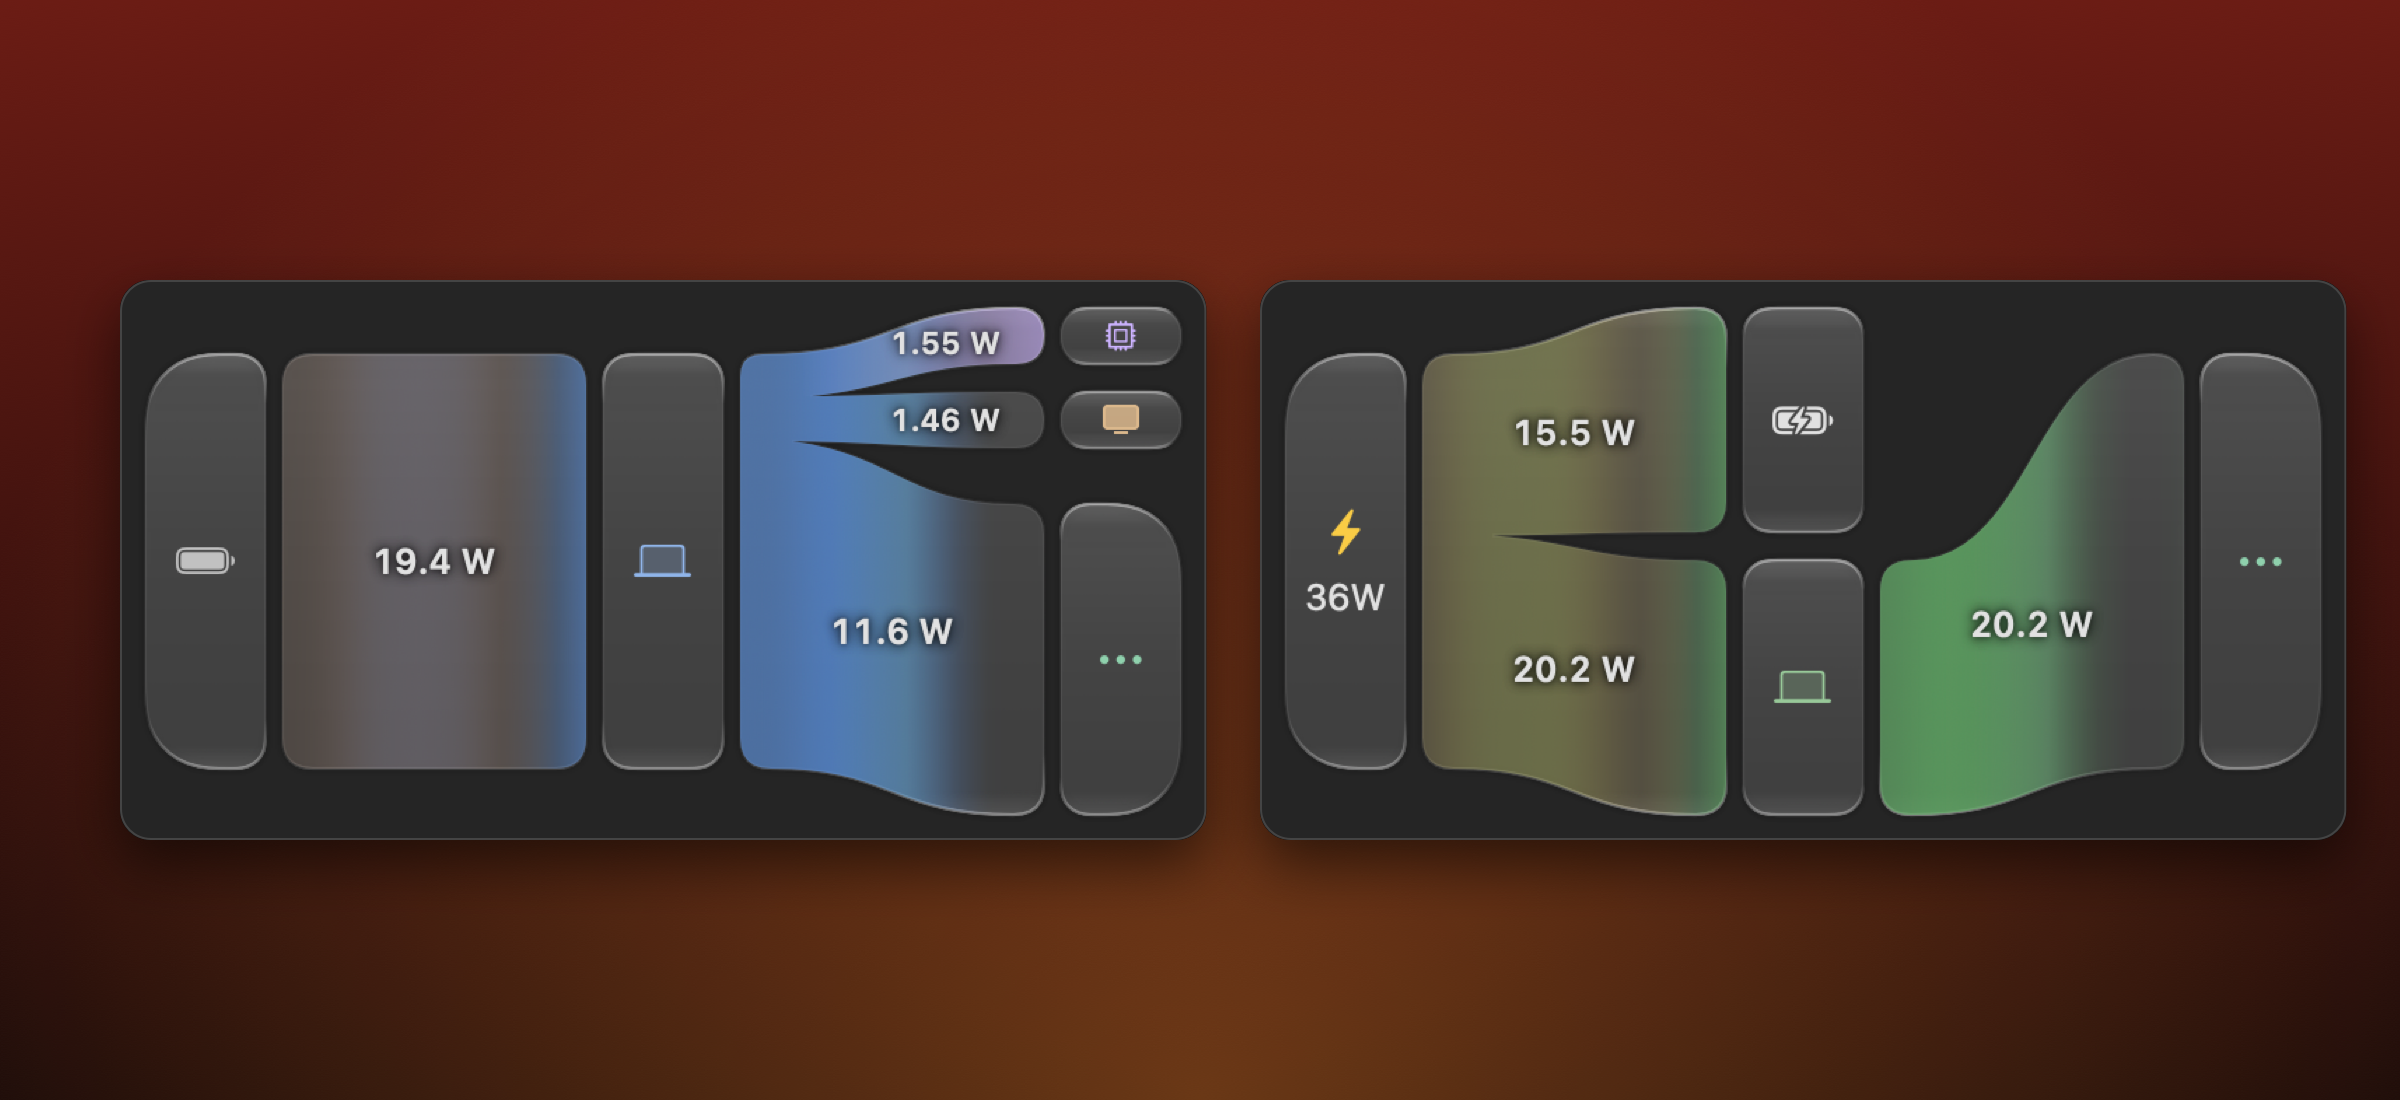
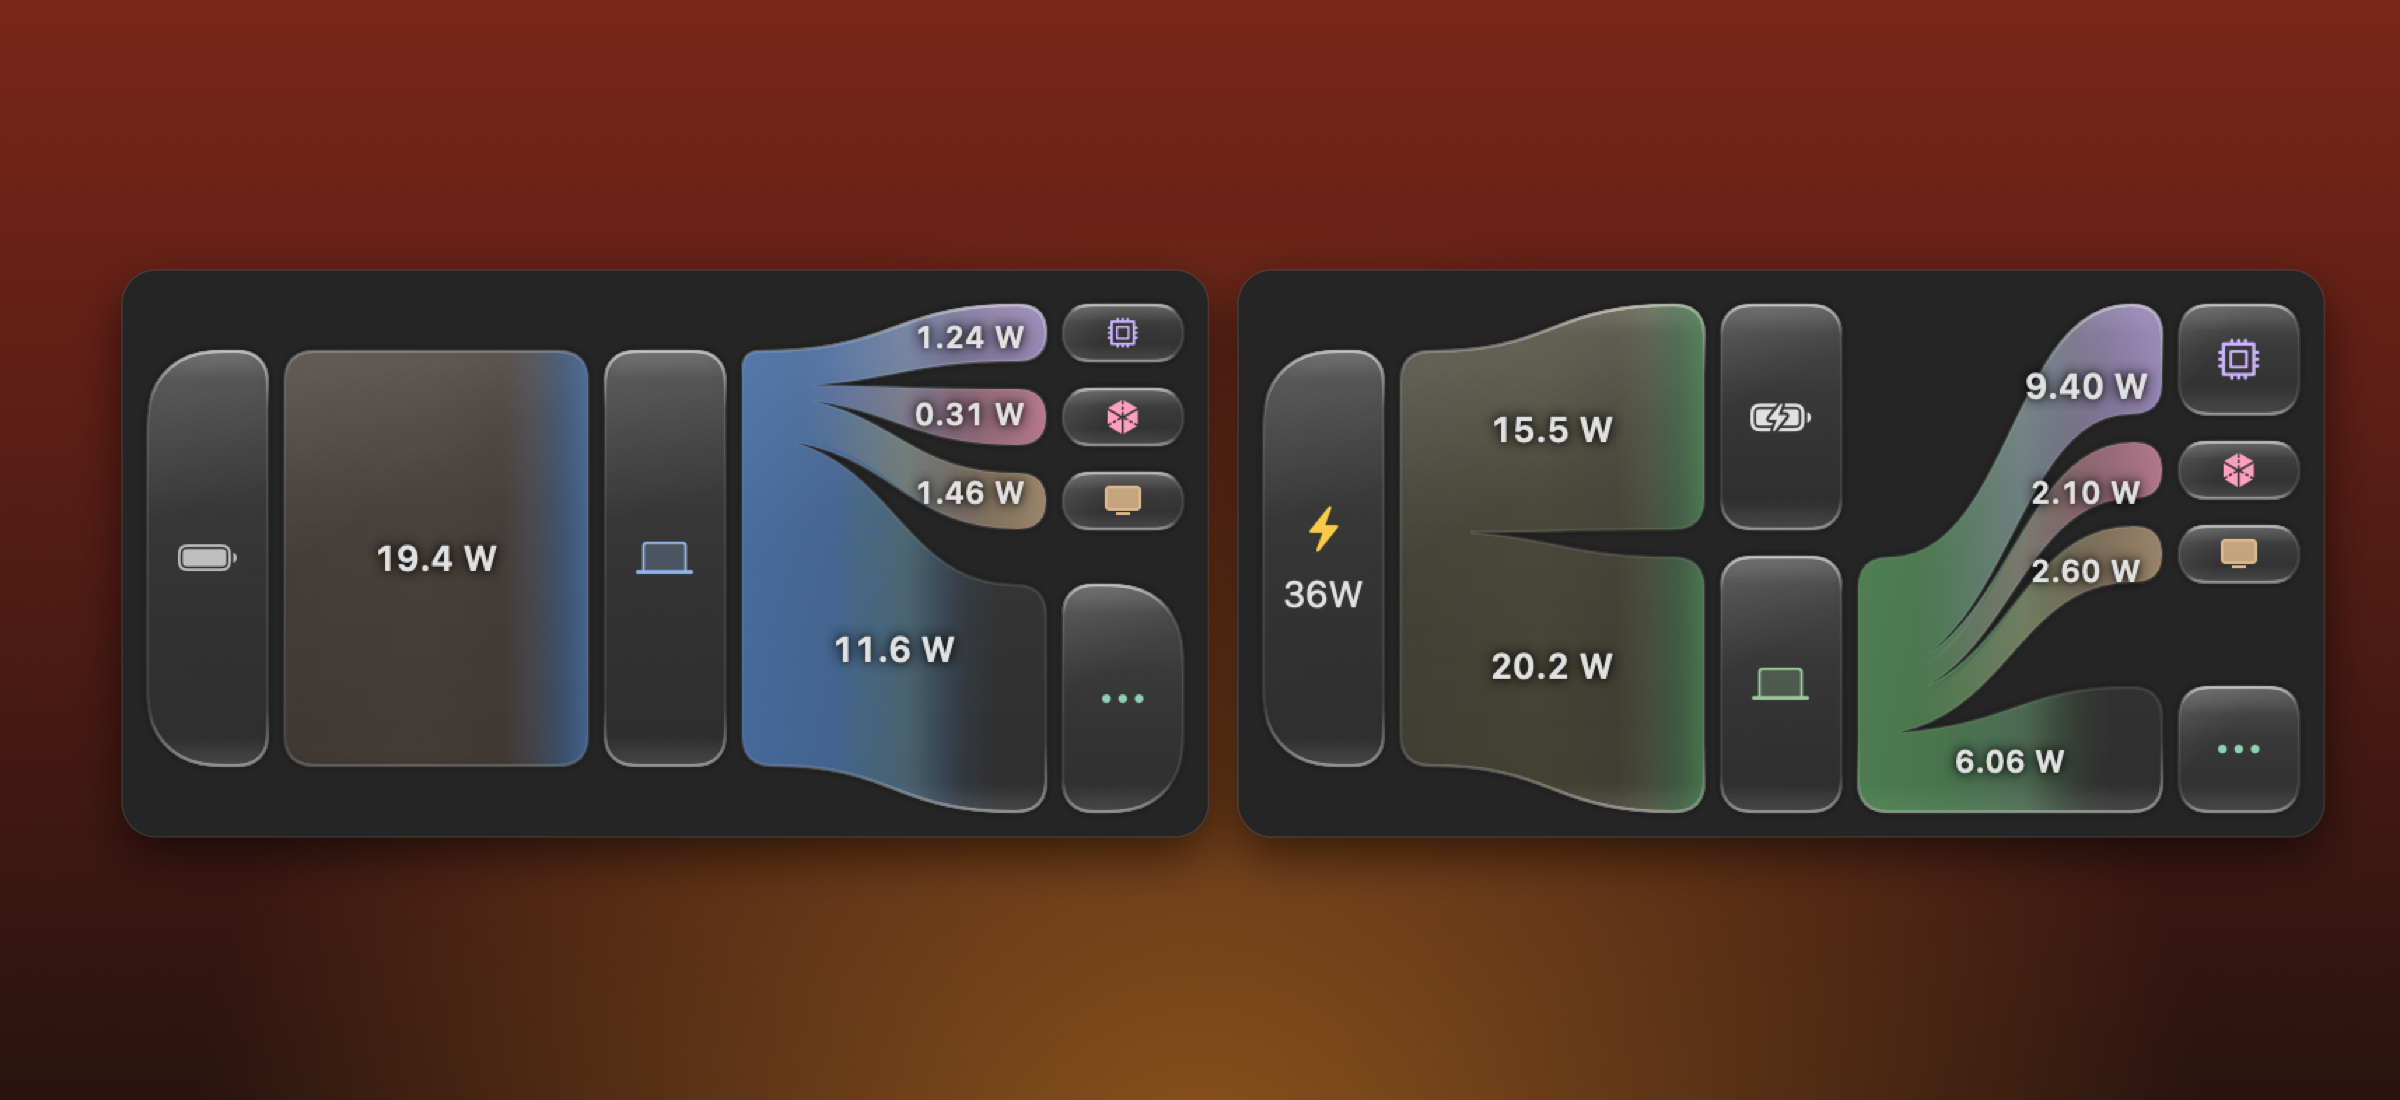
Refresh README screenshots for the new look
- Re-render hero, power-flow, states and menubar images: CPU/GPU/display
  branches, translucent slabs, state-aware time icon.
- README copy: GPU/display are estimates, branch colours, time readout icon.
- Snapshots: side-effect-free ChargeController(previewLimit:) so renders never
  read or touch the Mac's real charge limit; menu bar chips with the time stat.

Changed region(s): [[0.0625, 0.2473, 1.0, 0.7727], [0.375, 0.9582, 0.625, 1.0]]

diff --git a/App/Snapshots.swift b/App/Snapshots.swift
@@ -32,7 +32,7 @@ enum Snapshots {
         low.percent = 8; low.minutesRemaining = 24; low.amperage = -1.46; low.voltage = 10.74
         low.flow = PowerFlow(adapterToSystem: 0, adapterToBattery: 0, batteryToSystem: 15.7, systemLoad: 16.31, soc: nil, gpu: nil, display: 2.21)
         var live = reference
-        live.percent = 42; live.flow = PowerFlow(adapterToSystem: 0, adapterToBattery: 0, batteryToSystem: 11.2, systemLoad: 11.2, soc: 3.12, gpu: 0.78, display: nil)
+        live.percent = 42; live.flow = PowerFlow(adapterToSystem: 0, adapterToBattery: 0, batteryToSystem: 11.2, systemLoad: 11.2, soc: 3.12, gpu: 0.78, display: 1.40)
         var heavy = reference
         heavy.flow = PowerFlow(adapterToSystem: 0, adapterToBattery: 0, batteryToSystem: 24, systemLoad: 24, soc: 10.80, gpu: 2.70, display: 2.0)
         return [("live", live), ("heavy", heavy), ("charging", charging), ("paused", paused), ("draining", draining), ("battery", battery), ("reference", reference), ("low", low)]
@@ -50,7 +50,7 @@ enum Snapshots {
                 .padding(.vertical, 6)
                 .environment(BatteryMonitor(fixed: snap))
                 .environment(EnergyMonitor(fixed: name == "draining" ? sampleApps : []))
-                .environment(ChargeController())
+                .environment(ChargeController(previewLimit: 95))
             let window = NSWindow(contentViewController: NSHostingController(rootView: view))
             window.title = "Stracotto Preview – \(name)"
             window.isReleasedWhenClosed = false
@@ -123,7 +123,7 @@ enum Snapshots {
             let view = PopoverView()
                 .environment(BatteryMonitor(fixed: snap))
                 .environment(EnergyMonitor(fixed: apps))
-                .environment(ChargeController())
+                .environment(ChargeController(previewLimit: 95))
                 .environment(\.colorScheme, .dark)
                 .background(Theme.backdrop)
                 .environment(\.colorScheme, .dark)
@@ -135,7 +135,15 @@ enum Snapshots {
             }
         }
         // Menu bar item on a dark and a light bar.
-        for (name, snap, scheme) in [("menubar-charging", charging, ColorScheme.dark), ("menubar-battery-low", { var b = battery; b.percent = 14; return b }(), .light), ("menubar-paused", paused, .dark)] {
+        let timerBattery = { var b = battery; b.percent = 42; b.minutesRemaining = 155; return b }()
+        for (name, snap, scheme) in [("menubar-charging", charging, ColorScheme.dark), ("menubar-battery-low", { var b = battery; b.percent = 14; return b }(), .light), ("menubar-paused", paused, .dark),
+                                     ("menubar-timer-charging", charging, .dark), ("menubar-timer-battery", timerBattery, .dark)] {
+            // The time readout (with its clock / charger icon) is an opt-in menu bar stat.
+            UserDefaults.standard.setVolatileDomain([
+                ChargePrefs.sailing: true, ChargePrefs.sailingRange: 5.0, Prefs.showHardwarePercent: false,
+                AppearancePrefs.showPowerMode: false, AppearancePrefs.iconStyle: MenuBarStyle.native.rawValue,
+                AppearancePrefs.stats: name.hasPrefix("menubar-timer") ? MenuBarStat.timeRemaining.rawValue : "",
+            ], forName: UserDefaults.argumentDomain)
             let bar = MenuBarIcon()
                 .environment(BatteryMonitor(fixed: snap))
                 .environment(EnergyMonitor(fixed: name == "menubar-charging" ? [.init(id: "/Applications/Xcode.app", name: "Xcode", watts: 9)] : []))

diff --git a/App/ChargeController.swift b/App/ChargeController.swift
@@ -47,6 +47,13 @@ final class ChargeController {
         observeSystemChanges()
     }
 
+    /// For snapshots and docs: a fixed limit that never reads or writes the Mac's real charge limit.
+    init(previewLimit: Int) {
+        allowedLimits = [80, 85, 90, 95, 100]
+        backendStatus = .ready
+        limit = previewLimit
+    }
+
     /// Nearest value the hardware accepts, for the slider's drag.
     func snapped(_ value: Int) -> Int {
         allowedLimits.min { abs($0 - value) < abs($1 - value) } ?? value

diff --git a/README.md b/README.md
@@ -24,9 +24,11 @@
 
 <p align="center"><img src="docs/images/power-flow.png" alt="Power Flow" width="100%"></p>
 
-**Power Flow** draws your Mac's power as it moves: from the charger or battery, into the Mac, and out to the CPU,
-display and everything else. Each branch carries its live wattage and the colour flows the way the energy does:
-warm at the source, blue through the Mac, lavender at the chip, green and gold while charging.
+**Power Flow** draws your Mac's power as it moves: from the charger or battery, into the Mac, and out to the CPU, GPU,
+display and everything else. (The GPU and display branches are estimates: macOS only reports their power to root, so
+Stracotto derives them from GPU load and your backlight level.) Each branch carries its live wattage and the colour flows the way the energy does:
+warm at the source, blue through the Mac, lavender at the CPU, rose at the GPU, amber at the display, green and gold
+while charging.
 Tap any node for the detail behind it: the apps working your CPU, your display's brightness, the charger's negotiated
 voltage, the battery's health.
 
@@ -53,7 +55,9 @@ while charging it counts down to *your limit*, not to 100 %, accounting for the 
 
 Stracotto's menu bar battery takes the place of the system one. The percentage sits inside the cell, it flashes green
 with a sweep of light the moment you plug in, turns red when you're low, and a flame appears when an app starts pulling
-serious power. Add temperature, watts or time remaining beside it, or switch to a text-only style.
+serious power. Add temperature, watts or time remaining beside it, or switch to a text-only style. The time readout carries its own
+icon: a clock on battery, a softly glowing green bolt while charging, a yellow plug when you're plugged in but not
+filling.
 
 ## Everything else
 
